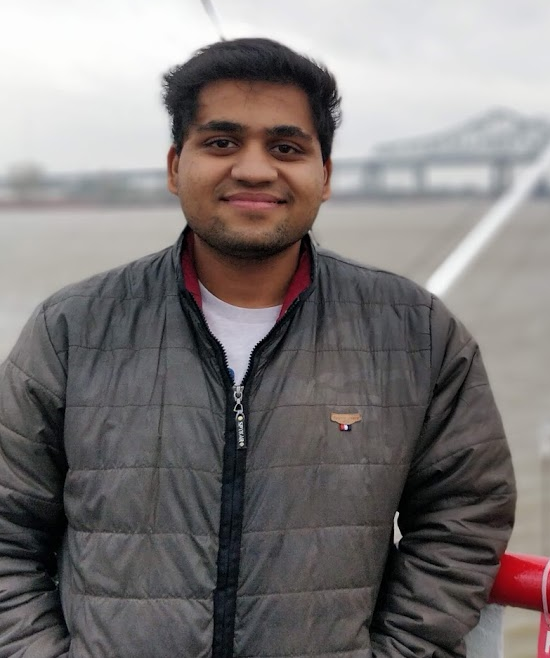
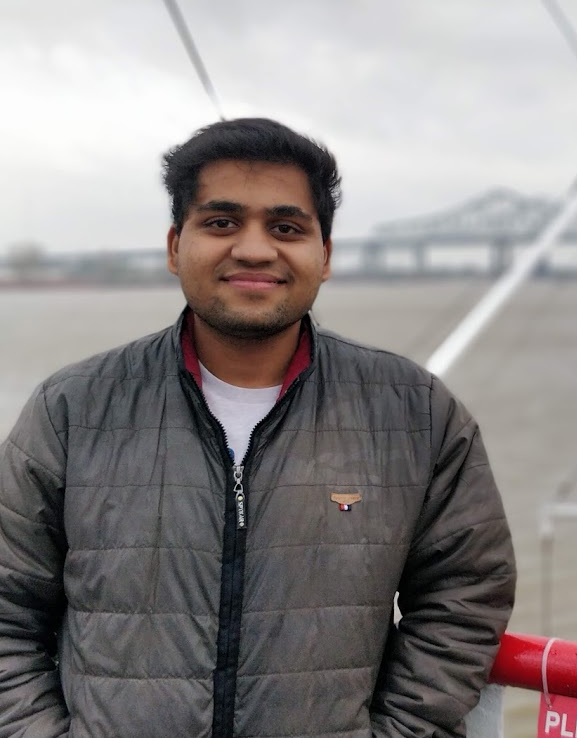
changed pic size

diff --git a/authors/admin/index.html b/authors/admin/index.html
@@ -535,7 +535,7 @@
 
       
       
-      <img class="avatar avatar-circle" src="/authors/admin/avatar_hu78108db607c35eaa8b02e18430e274fd_98934_270x270_fill_q90_lanczos_center.jpg" alt="Avatar">
+      <img class="avatar avatar-circle" src="/authors/admin/avatar_hu6648ee9ecc472c1c78e44ebf5de01aff_463031_270x270_fill_lanczos_center_2.png" alt="Avatar">
       
 
       <div class="portrait-title">

diff --git a/index.html b/index.html
@@ -594,7 +594,7 @@
 
       
       
-      <img class="avatar avatar-circle" src="/authors/admin/avatar_hu78108db607c35eaa8b02e18430e274fd_98934_270x270_fill_q90_lanczos_center.jpg" alt="Avatar">
+      <img class="avatar avatar-circle" src="/authors/admin/avatar_hu6648ee9ecc472c1c78e44ebf5de01aff_463031_270x270_fill_lanczos_center_2.png" alt="Avatar">
       
 
       <div class="portrait-title">
